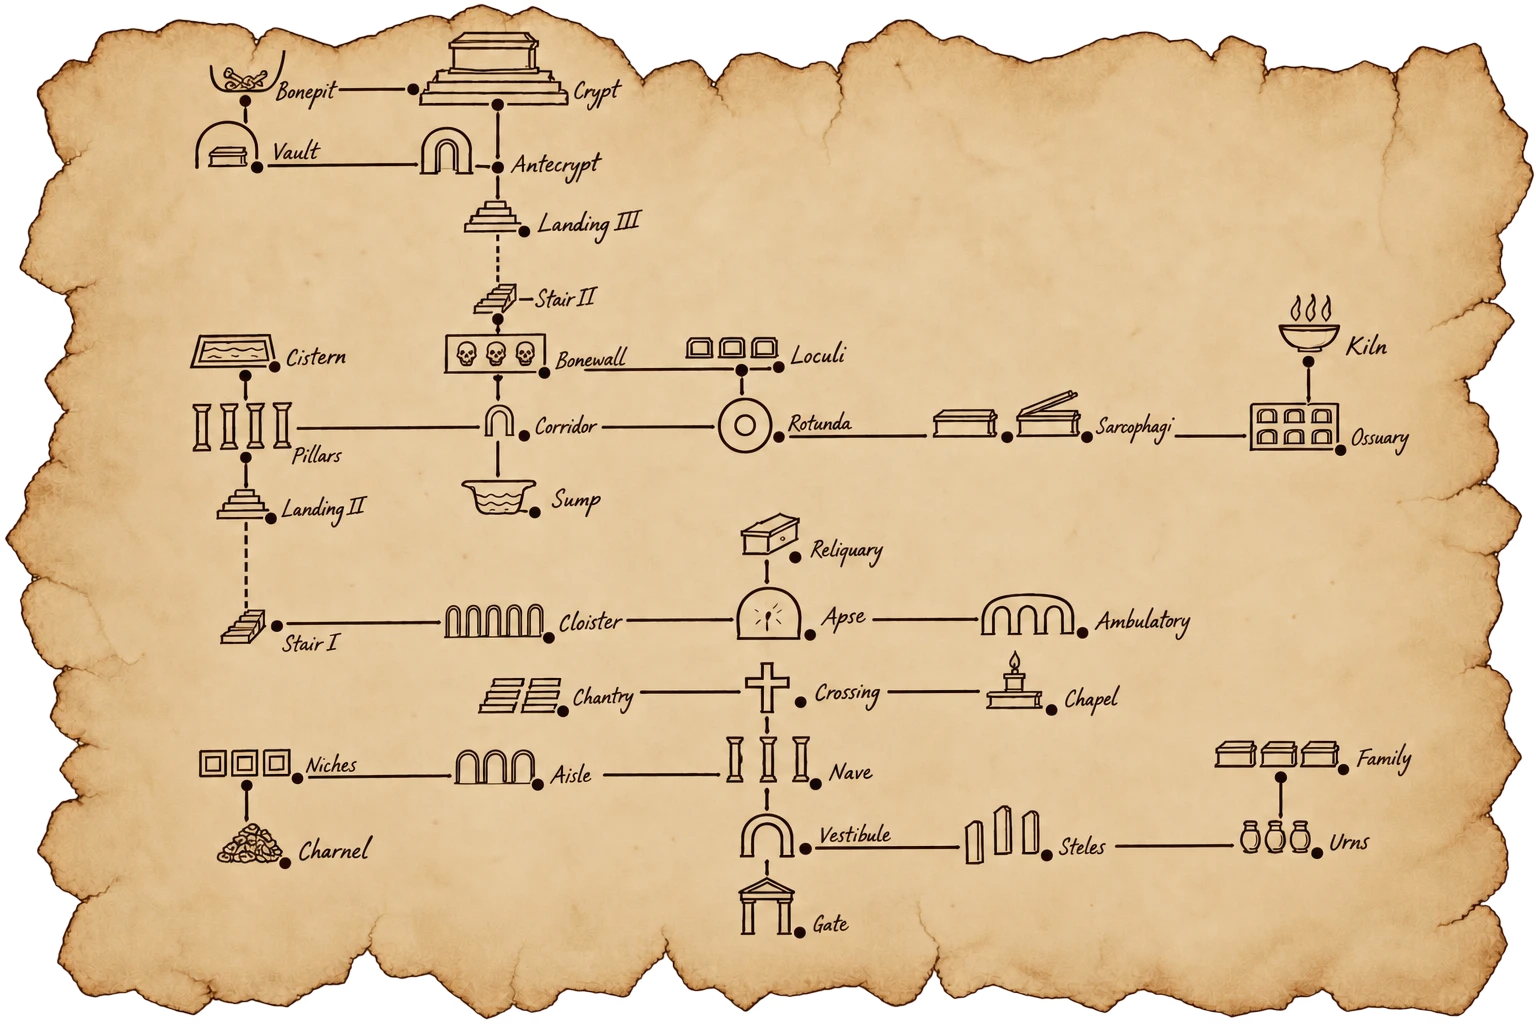
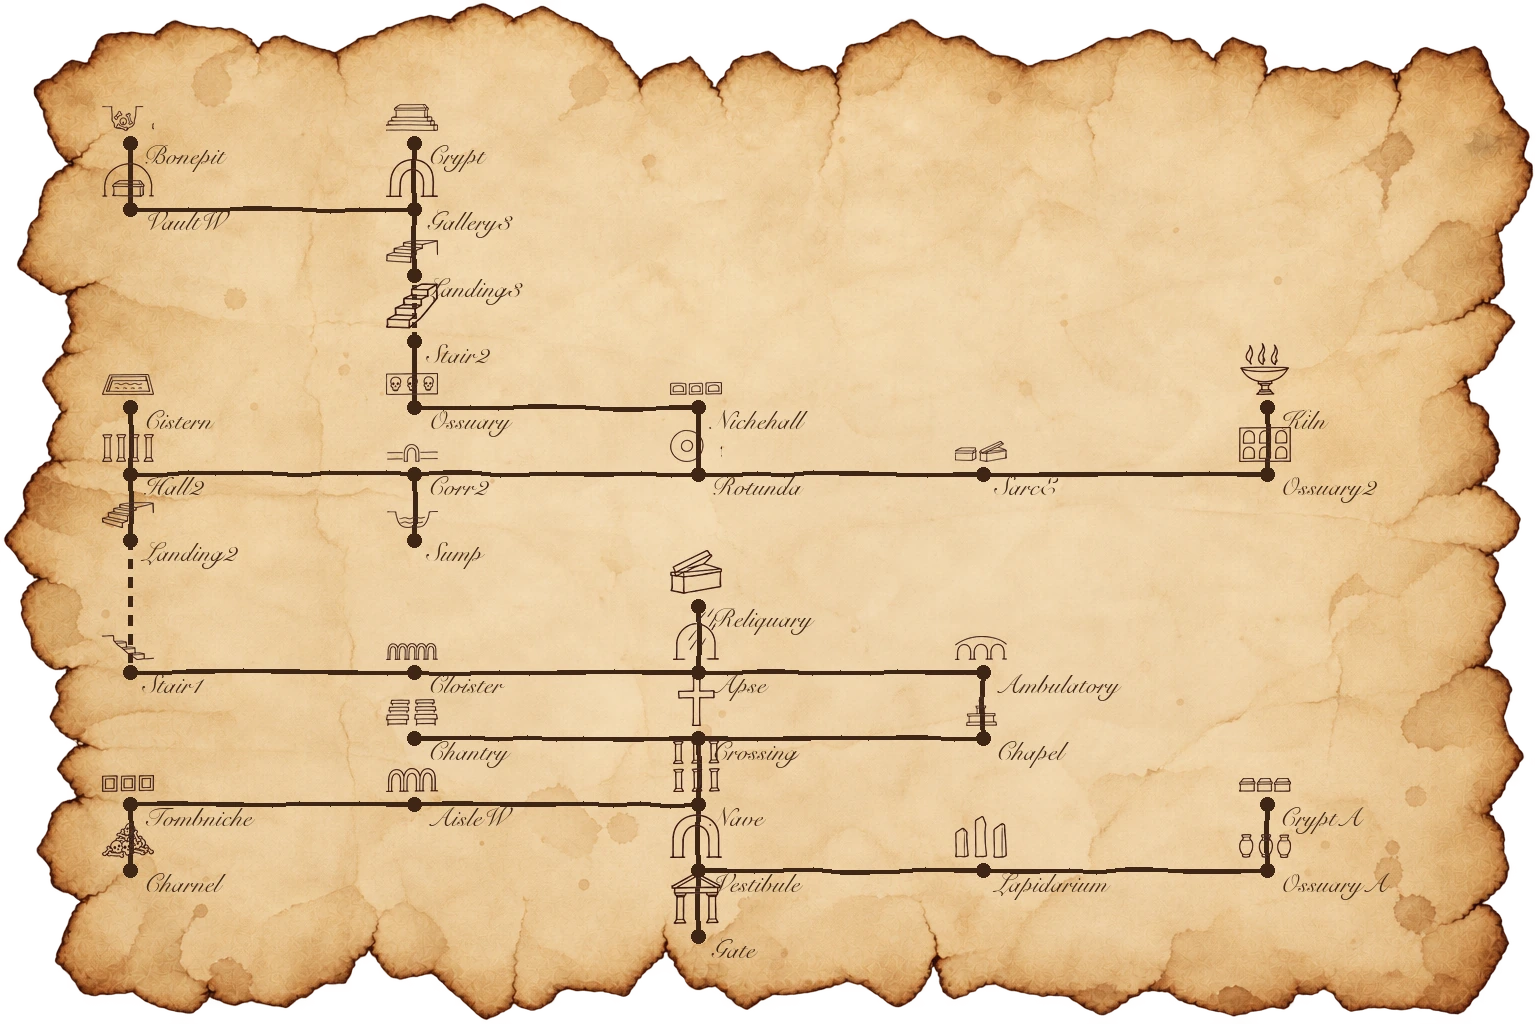
art(map): 伊甸古墓小地圖改用程式合成 —— 圖與 spots 同一次產出 ver -1144
resources/map/map_tomb.webp（1536×1024、撕邊外真 alpha）＋ _spots_tomb.json（34 鍵）。

模型只出兩樣「畫法」的素材（都進了 _originals/map/）：
· map_tomb_paper.png —— 一張完全空白的舊羊皮紙
· map_tomb_icons.png —— 6×6 的圖示貼紙表（34 個鋼筆簡筆記號，白底）
墨點、33 條連線、兩條換層虛線、草書地名的位置全部由 tools/map_compose.py
照 tools/map_layout.py 的 POS 算出來 —— **spots 是算出來的，不是量出來的**，
所以座標與畫面不可能對不上，連線也不可能多一條少一條。

⚠ 四邊的留白改成不對稱（右 0.175）：草書名往右長，對稱留白會讓最右邊那幾格
（Kiln／Ossuary2／CryptA）的名字掉出紙外。

spots 的 34 個鍵與 script/town.js 的 node id 完全一致（驗過，無缺無多）。

diff --git a/tools/map_compose.py b/tools/map_compose.py
@@ -28,9 +28,10 @@ sys.path.insert(0, os.path.join(ROOT, 'tools'))
 from map_layout import POS, load            # 同一份版面、同一支讀取器（鐵律 7）
 
 W, H = 1536, 1024
-MARGIN  = 0.08
-ICON_PX = 46
-NAME_PX = 24
+# ⚠ 四邊不對稱：草書名往**右**長，所以右邊要留最多；紙的撕邊也會吃掉一圈
+MARG = dict(l=0.085, r=0.175, t=0.140, b=0.085)
+ICON_PX = 52
+NAME_PX = 26
 DOT_R   = 7                               # 紙的四周留白（比例）
 INK   = (62, 38, 22)
 FONT_CURSIVE = '/System/Library/Fonts/Supplemental/SnellRoundhand.ttc'
@@ -45,9 +46,9 @@ def frac_positions(town, nodes=None):
     pos = {k: v for k, v in POS[town].items() if (nodes is None or k in nodes)}
     cs = sorted({c for c, _ in pos.values()}); rs = sorted({r for _, r in pos.values()})
     ci = {c: i for i, c in enumerate(cs)}; ri = {r: i for i, r in enumerate(rs)}
-    sx = (1 - 2*MARGIN) / max(1, len(cs)-1)
-    sy = (1 - 2*MARGIN) / max(1, len(rs)-1)
-    return {k: (MARGIN + ci[c]*sx, MARGIN + ri[r]*sy) for k, (c, r) in pos.items()}
+    sx = (1 - MARG['l'] - MARG['r']) / max(1, len(cs)-1)
+    sy = (1 - MARG['t'] - MARG['b']) / max(1, len(rs)-1)
+    return {k: (MARG['l'] + ci[c]*sx, MARG['t'] + ri[r]*sy) for k, (c, r) in pos.items()}
 
 def edges_of(T):
     N = T['nodes']; e = set()
